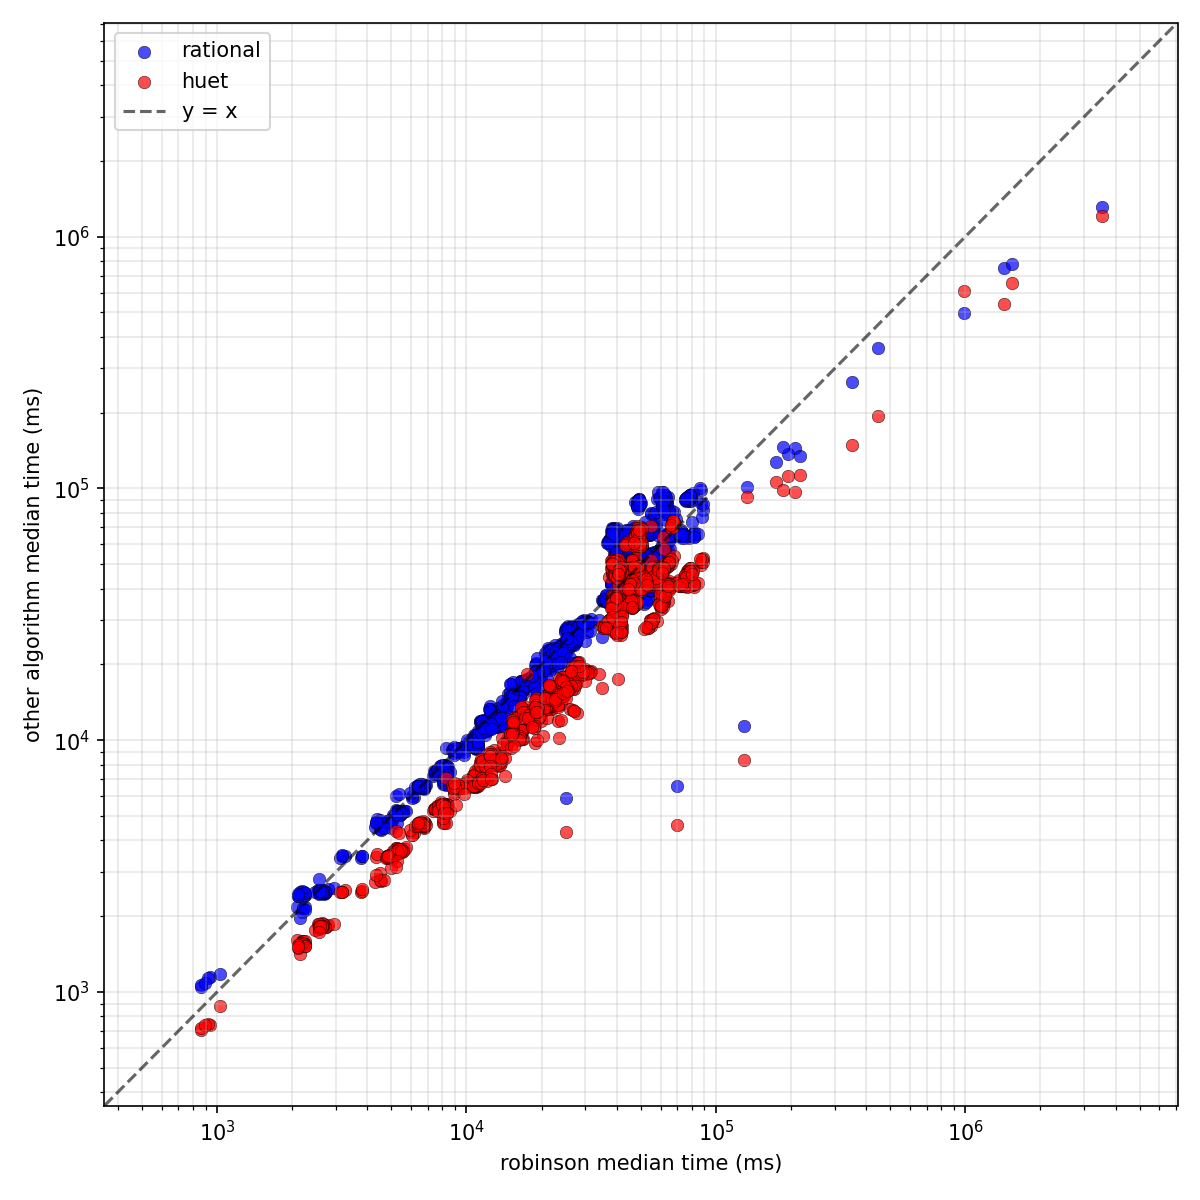
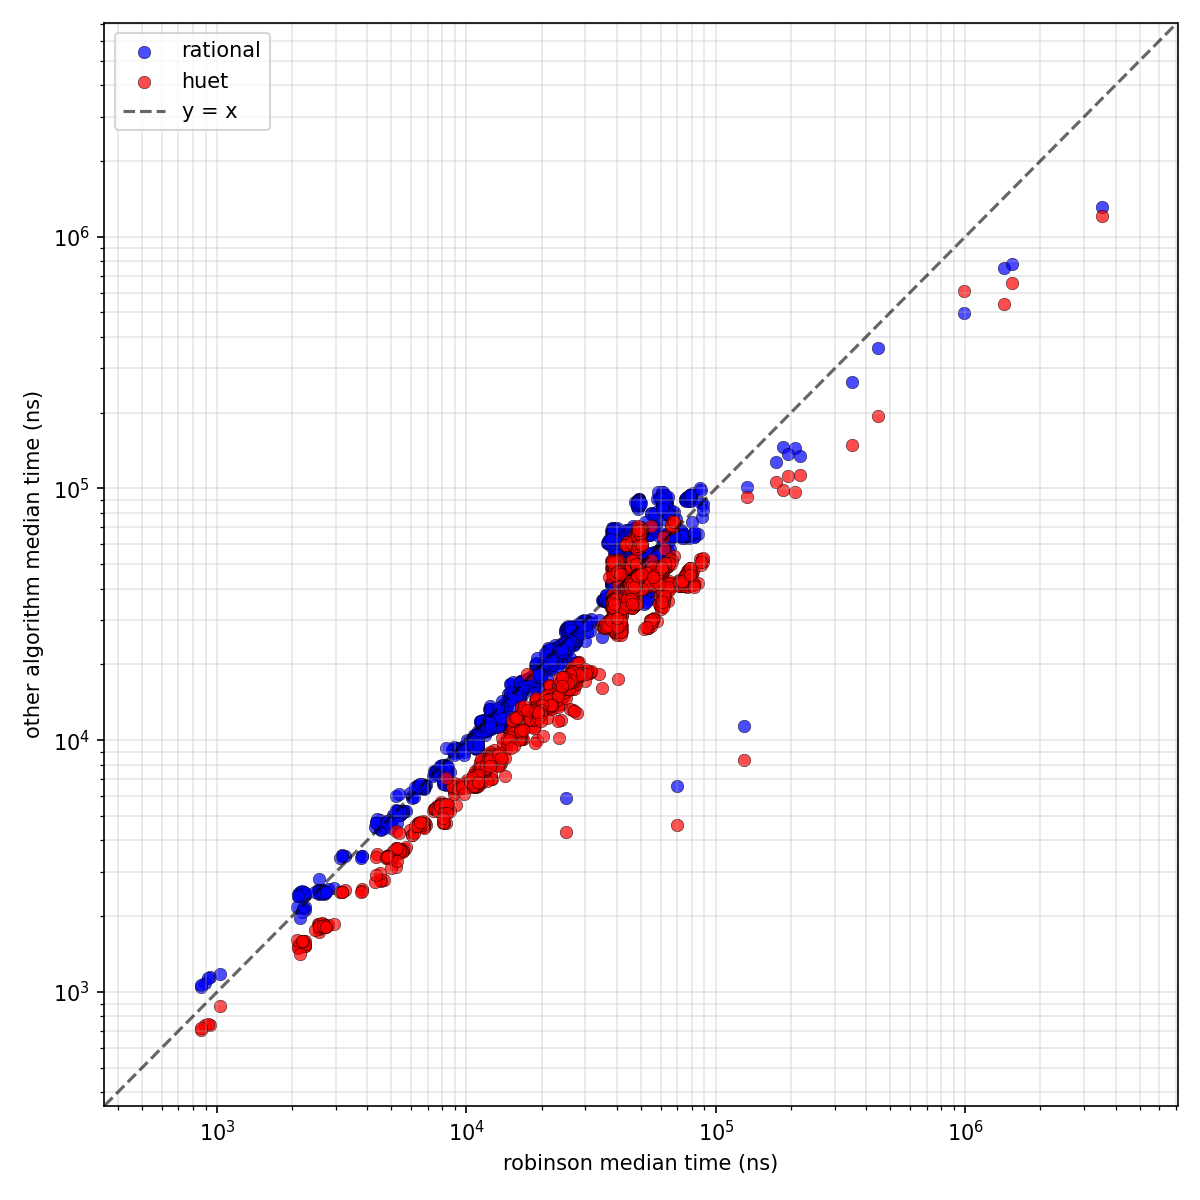
Fix time units

diff --git a/bench/robinson_corr.py b/bench/robinson_corr.py
@@ -260,8 +260,8 @@ def plot_results(datasets: dict, variant: str, output_file: str = None, show_err
         ax.set_xlim(x_min_adj, x_max_adj)
         ax.set_ylim(y_min_adj, y_max_adj)
     
-    ax.set_xlabel(f'Median time (sec) - {ROBINSON}', fontsize=12)
-    ax.set_ylabel('Median time (sec) - target algorithm', fontsize=12)
+    ax.set_xlabel(f'Median time (ns) - {ROBINSON}', fontsize=12)
+    ax.set_ylabel('Median time (ns) - target algorithm', fontsize=12)
     ax.set_title(f'Algorithm performance vs Robinson\n{variant} (all trace sets)', fontsize=14)
     ax.set_xscale('log')
     ax.set_yscale('log')

diff --git a/bench/plot_robinson_vs_others.py b/bench/plot_robinson_vs_others.py
@@ -125,8 +125,8 @@ def plot_comparison(medians, variant, trace_set_label):
         ax.set_xlim(min_val, max_val)
         ax.set_ylim(min_val, max_val)
 
-    ax.set_xlabel('robinson median time (ms)')
-    ax.set_ylabel('other algorithm median time (ms)')
+    ax.set_xlabel('robinson median time (ns)')
+    ax.set_ylabel('other algorithm median time (ns)')
     # ax.set_title(f'robinson vs rational / huet\n(variant={variant}, trace_set={trace_set_label})')
     ax.legend()
     ax.grid(True, alpha=0.3, which='both')

diff --git a/bench/plot_huet_vs_rational.py b/bench/plot_huet_vs_rational.py
@@ -116,8 +116,8 @@ def plot_comparison(medians, variant, trace_set_label):
         ax.set_xlim(min_val, max_val)
         ax.set_ylim(min_val, max_val)
 
-    ax.set_xlabel('huet median time (s)')
-    ax.set_ylabel('rational median time (s)')
+    ax.set_xlabel('huet median time (ns)')
+    ax.set_ylabel('rational median time (ns)')
     ax.set_title(f'huet vs rational\n(variant={variant}, trace_set={trace_set_label})')
     ax.legend()
     ax.grid(True, alpha=0.3, which='both')

diff --git a/bench/compare_ephemeral_variants.py b/bench/compare_ephemeral_variants.py
@@ -75,7 +75,7 @@ def compare_trace(algorithm, trace_set, trace_name, alpha=0.05):
                                       alternative='two-sided')
     print('='*60)
     print(f'Results for trace: {trace_name} (algorithm: {algorithm})')
-    print('Median time (sec):')
+    print('Median time (ns):')
     for var, med in medians.items():
         print(f'  {var:30s} : {med:.6f}')
     print(f'\nMann-Whitney U-test: U = {u_stat:.4f}, p-value = {p_mw:.6f}')

diff --git a/bench/plot.py b/bench/plot.py
@@ -165,7 +165,7 @@ def plot_scatter(variant: str, trace_set: str, output_file: str = None):
     ax.set_xticklabels(sorted_traces, rotation=45, ha='right', fontsize=7)
 
     ax.set_xlabel('Trace (sorted by min median)')
-    ax.set_ylabel('Time (seconds)')
+    ax.set_ylabel('Time (nanoseconds)')
 
     ax.set_title(f"Algorithm comparison on '{trace_set}' (variant: {variant})")
     ax.grid(True, linestyle='--', alpha=0.6)

diff --git a/bench/plot_bars.py b/bench/plot_bars.py
@@ -135,7 +135,7 @@ def plot_bars(variant: str, trace_set: str, output_file: str = None, ymax: float
     ax.set_xticklabels(filtered_traces, rotation=45, ha='right', fontsize=7)
 
     ax.set_xlabel('Trace')
-    ax.set_ylabel('Time (ms)')
+    ax.set_ylabel('Time (ns)')
 
     # ax.set_title(f"Algorithm comparison on '{trace_set}' (variant: {variant})")
     ax.legend()

diff --git a/bench/plot_bars_no_robinson.py b/bench/plot_bars_no_robinson.py
@@ -132,7 +132,7 @@ def plot_bars(variant: str, trace_set: str, output_file: str = None, ymax: float
     ax.set_xticklabels(filtered_traces, rotation=45, ha='right', fontsize=7)
 
     ax.set_xlabel('Trace')
-    ax.set_ylabel('Time (ms)')
+    ax.set_ylabel('Time (ns)')
 
     ax.legend()
     ax.grid(True, axis='y', linestyle='--', alpha=0.6)

diff --git a/bench/analyse.py b/bench/analyse.py
@@ -54,7 +54,7 @@ def compare_trace(var, trace_set, trace_name, alpha=0.05):
     print('Results for trace:', trace_name)
 
     print('='*60)
-    print('Median time (sec):')
+    print('Median time (ns):')
 
     for alg, med in medians.items():
         print(f'  {alg:30s} : {med:.6f}')
